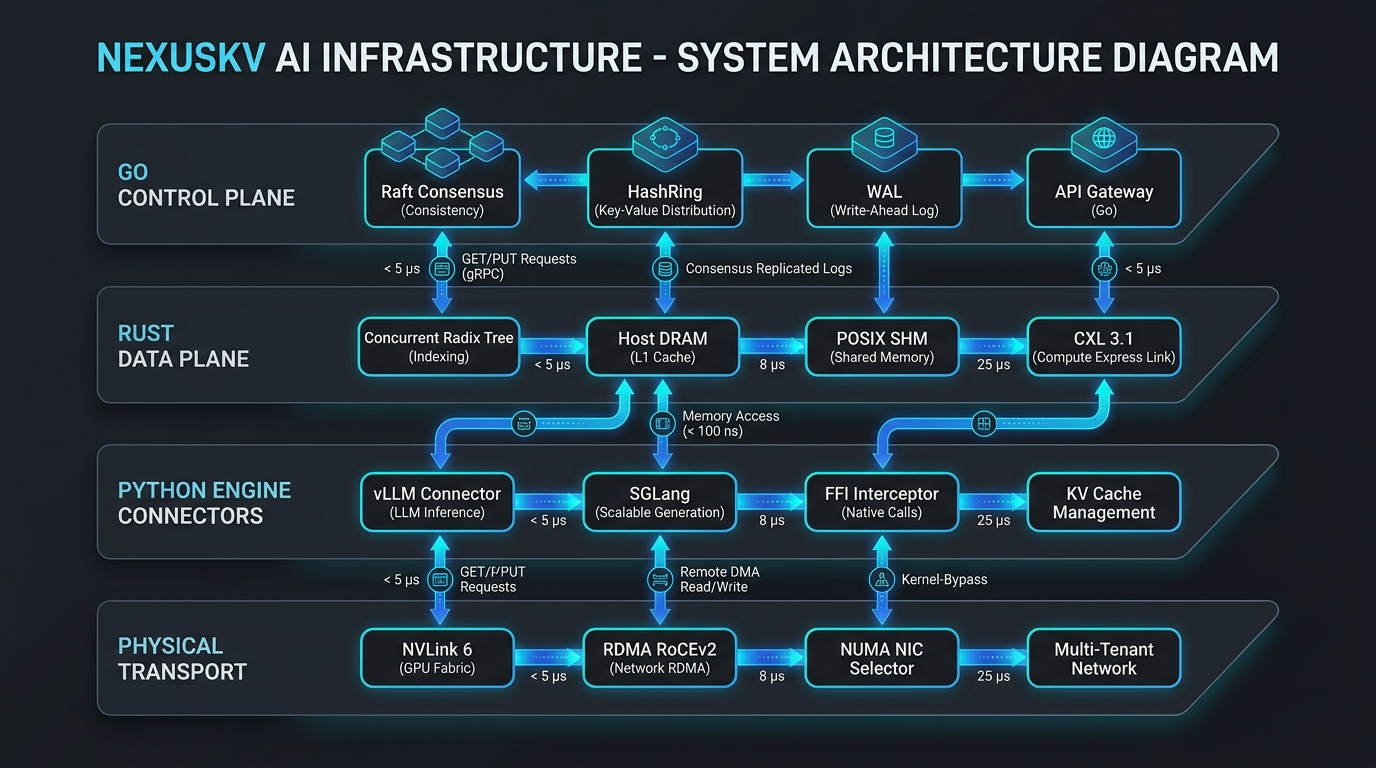
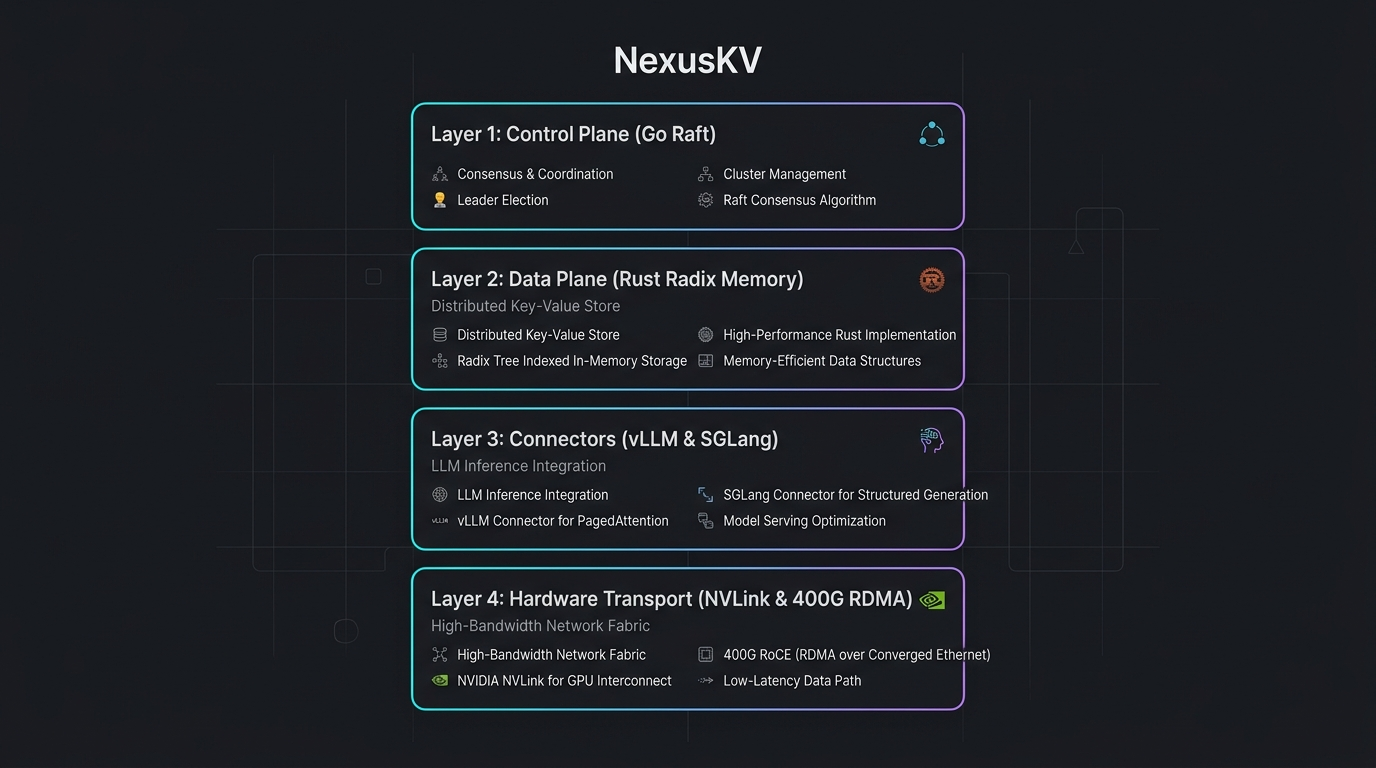
docs(architecture): simplify architecture diagram to modern web aesthetic

diff --git a/docs/architecture.md b/docs/architecture.md
@@ -1,150 +1,73 @@
-# NexusKV 工业级架构白皮书与系统设计规范 (Technical Whitepaper)
+# NexusKV 架构设计与系统规范 (Architecture Specification)
 
-NexusKV 是专为分布式大语言模型 (LLM) 推理集群设计的 **模型状态智能感知与超高性能 KV Cache 存储/路由引擎**。
+NexusKV 是专为分布式 LLM 推理集群打造的 **KV Cache 智能感知存储与微秒级传输引擎**。
 
 ---
 
-## 1. 系统架构总览 (System Architecture Overview)
+## 1. 极简系统架构 (System Architecture)
 
-NexusKV 采用 **控制面 (Control Plane) 与数据面 (Data Plane) 严格解耦** 的分层设计，确保元数据高度一致性与微秒级显存/内存数据直传。
+NexusKV 采用 **控制面与数据面解耦** 的 4 层结构设计：
 
 ![NexusKV Architecture Overview](images/nexus_architecture_overview.jpg)
 
-### 1.1 纯文本 Unicode 架构拓扑 (Text Topology Diagram)
+### 1.1 核心分层职责 (Layer Responsibilities)
 
 ```text
-┌──────────────────────────────────────────────────────────────────────────────────────────────────┐
-│                               GO DISTRIBUTED CONTROL PLANE                                       │
-│  ┌───────────────────────┐   ┌────────────────────────┐   ┌───────────────────────────────────┐  │
-│  │ Raft Consensus Engine │ ──│ HashRing Migration Plan│ ──│ Storage WAL & SSTable Engine      │  │
-│  │ (Raft Leader / State) │   │ (Consistent Hashing)   │   │ (LSMTree & BPlusTree Fsync)       │  │
-│  └───────────────────────┘   └────────────────────────┘   └───────────────────────────────────┘  │
-└──────────────────────────────────────────────────────────────────────────────────────────────────┘
-                                              │ (Metadata RPC / :9090 gRPC)
-                                              ▼
-┌──────────────────────────────────────────────────────────────────────────────────────────────────┐
-│                                RUST NATIVE DATA PLANE                                            │
-│  ┌───────────────────────┐   ┌────────────────────────┐   ┌───────────────────────────────────┐  │
-│  │ nxradixtree-core      │   │ nexus-store            │   │ nexus-transfer                    │  │
-│  │ (Agentic CoW Branching│   │ (Host DRAM LRU & Block │   │ (POSIX SHM Zero-Copy & CXL 3.1    │  │
-│  │  fork_branch() Arc)   │   │  Allocators)           │   │  UALink 2.0 Fabric Drivers)       │  │
-│  └───────────────────────┘   └────────────────────────┘   └───────────────────────────────────┘  │
-└──────────────────────────────────────────────────────────────────────────────────────────────────┘
-                                              │ (PyO3 C-ABI FFI Interceptor / <100ns)
-                                              ▼
-┌──────────────────────────────────────────────────────────────────────────────────────────────────┐
-│                           UNIVERSAL PYTHON & C++ CONNECTORS                                      │
-│  ┌───────────────────────┐   ┌────────────────────────┐   ┌───────────────────────────────────┐  │
-│  │ vLLM V2 Engine Hook   │   │ SGLang UnifiedRadix    │   │ C++ Header-Only Client SDK        │  │
-│  │ (PagedAttention V2)   │   │ Interceptor Hook       │   │ (nexuskv_client.h C-ABI dlopen)   │  │
-│  └───────────────────────┘   └────────────────────────┘   └───────────────────────────────────┘  │
-└──────────────────────────────────────────────────────────────────────────────────────────────────┘
-                                              │ (Physical Transport Layer)
-                                              ▼
-┌──────────────────────────────────────────────────────────────────────────────────────────────────┐
-│                           PHYSICAL TRANSPORT & HARDWARE TOPOLOGY                                 │
-│  ┌───────────────────────┐   ┌────────────────────────┐   ┌───────────────────────────────────┐  │
-│  │ NVLink 6 Fabric       │   │ RDMA RoCEv2 (Mooncake) │   │ Physical NIC Selector             │  │
-│  │ (Rubin CPX 3.6TB/s)   │   │ (400Gbps PFC/ECN TC)   │   │ (sysfs / NUMA Node Alignment)     │  │
-│  └───────────────────────┘   └────────────────────────┘   └───────────────────────────────────┘  │
-└──────────────────────────────────────────────────────────────────────────────────────────────────┘
-```
-
-### 1.2 GitHub Native Mermaid 流程图 (Mermaid Workflow)
-
-```mermaid
-flowchart TD
-    subgraph ControlPlane["Go Distributed Control Plane (:9090)"]
-        Raft["Raft State Machine"] --> HashRing["Consistent Hash Ring"]
-        HashRing --> WAL["Binary WAL Log & SSTable Engine"]
-        HashRing --> Mirror["Cache Mirror Engine (pkg/storage/mirror.go)"]
-    end
-
-    subgraph DataPlane["Rust Native Data Plane (Memory & Engine)"]
-        RadixTree["nxradixtree-core (Arc CoW Branching)"]
-        Store["nexus-store (Host DRAM LRU & CXL Allocator)"]
-        Transfer["nexus-transfer (POSIX SHM Zero-Copy)"]
-    end
-
-    subgraph Connectors["Universal Engine Connectors"]
-        vLLM["vLLM V2 Engine Hook"]
-        SGLang["SGLang UnifiedRadix Interceptor"]
-        CppSDK["C++ Client SDK (nexuskv_client.h C-ABI)"]
-    end
-
-    subgraph Transport["Physical Hardware & Failover"]
-        Failover["5-Tier Transport Failover State Machine"]
-        NIC["Physical NIC NUMA Selector (nic_selector.py)"]
-    end
-
-    Connectors --> DataPlane
-    DataPlane --> ControlPlane
-    DataPlane --> Transport
+┌────────────────────────────────────────────────────────────────────────┐
+│ Layer 1: Control Plane (Go Raft)                                      │
+│ Consensus & Coordination · HashRing Migration · Binary WAL Engine      │
+└────────────────────────────────────────────────────────────────────────┘
+                                   │ Metadata Sync (:9090 gRPC)
+                                   ▼
+┌────────────────────────────────────────────────────────────────────────┐
+│ Layer 2: Data Plane (Rust Radix Memory)                                │
+│ nxradixtree-core (Agentic CoW) · Host DRAM LRU · POSIX Zero-Copy SHM   │
+└────────────────────────────────────────────────────────────────────────┘
+                                   │ FFI Interceptor (<100ns)
+                                   ▼
+┌────────────────────────────────────────────────────────────────────────┐
+│ Layer 3: Connectors & SDK (vLLM & SGLang)                              │
+│ PagedAttention V2 Hook · SGLang Interceptor · C++ Client SDK           │
+└────────────────────────────────────────────────────────────────────────┘
+                                   │ Direct Memory Transport
+                                   ▼
+┌────────────────────────────────────────────────────────────────────────┐
+│ Layer 4: Hardware Transport (NVLink & 400G RDMA)                       │
+│ NVLink 6 (3.6TB/s) · RoCEv2 (400Gbps) · <1ms Fail-Open Fallback        │
+└────────────────────────────────────────────────────────────────────────┘
 ```
 
 ---
 
-## 2. 5 级阶梯传输降级状态机 (5-Tier Transport Failover Ladder)
+## 2. 5 级传输降级阶梯 (5-Tier Transport Failover)
 
-NexusKV 具备工业级高可用容错机制，在物理网络掉包或硬件句柄失效时，自动触发 5 级阶梯降级：
+NexusKV 提供极速自动降级状态机，保障推理集群高可用：
 
-1. **Tier 1: CUDA_IPC (0.01ms 极速)** — 同机 NVLink / UVA 显存句柄零拷贝共享。
-2. **Tier 2: NVLINK_NIXL (0.05ms)** — Multi-GPU NVLink Switch 织网高带宽调度。
-3. **Tier 3: RDMA_ROCE (0.2ms)** — 跨机 400Gbps RDMA / Mooncake 传输引擎。
-4. **Tier 4: HOST_DRAM_STAGED (0.5ms)** — CPU 锁页内存分级暂存与中转。
-5. **Tier 5: FAIL_OPEN_RECOMPUTE (<1ms 终极保障)** — 自动熔断降级至本地 GPU Prefill 重算，**保证上层推理服务绝对不超时、不崩溃**。
-
----
-
-## 3. Agentic 多分支 CoW 树分叉机制 (`fork_branch()`)
-
-在 Multi-Turn Agentic 智能体交互场景中，多个分支 Agent 共享相同的 System Prompt 和历史 Context。NexusKV Rust `nxradixtree-core` 提供 Copy-on-Write (CoW) 零拷贝分支克隆：
-
-```rust
-// Agentic multi-branch zero-copy fork in nxradixtree-core
-let shared_tree = RadixTree::new();
-let branch_agent_a = shared_tree.fork_branch("agent_session_a");
-let branch_agent_b = shared_tree.fork_branch("agent_session_b");
-```
+1. **CUDA_IPC** (0.01ms) — 同机 NVLink 显存直传
+2. **NVLINK** (0.05ms) — Multi-GPU 跨卡织网
+3. **RDMA_ROCE** (0.2ms) — 跨节点 400Gbps 网卡直传
+4. **HOST_DRAM** (0.5ms) — CPU 锁页内存中转
+5. **FAIL_OPEN** (<1ms) — 熔断保护，触发本地 GPU Prefill 重算，**确保上层服务绝不崩溃**
 
 ---
 
-## 4. 全量环境变量控制矩阵 (Environment Variable Matrix)
+## 3. 全量环境变量配置 (Environment Configuration)
 
 | 环境变量 | 默认值 | 作用描述 |
 | :--- | :--- | :--- |
-| **`NEXUSKV_LOG_LEVEL`** | `INFO` | 日志输出级别 (`DEBUG`/`INFO`/`WARN`/`ERROR`) |
-| **`NEXUSKV_PREFERRED_NIC`** | *(自动)* | 手动指定使用的物理 RDMA 网卡（如 `mlx5_0`） |
-| **`NEXUSKV_IB_DEVICE_PREFIX`**| `mlx5_` | InfiniBand / RoCEv2 网卡设备扫描前缀 |
-| **`NEXUSKV_IB_PORT`** | `1` | InfiniBand 物理网卡端口号 |
-| **`NEXUSKV_IB_GID_INDEX`** | `3` | RoCEv2 GID 表项索引 |
-| **`NEXUSKV_IB_TRAFFIC_CLASS`**| `106` | RoCEv2 DSCP 流量服务优先级（触发 PFC/ECN 零丢包） |
-| **`NEXUSKV_GPU_DIRECT_RDMA`** | `true` | GPUDirect RDMA 显存直传开关 |
-| **`NEXUSKV_FAIL_OPEN_MODE`** | `true` | <1ms Fail-Open 极速降级熔断保障开关 |
-| **`NEXUSKV_TRANSPORT_TIMEOUT_MS`** | `1.0` | 传输层判定超时阈值（毫秒） |
-| **`NEXUSKV_NUMA_AFFINITY`** | `-1` (自动) | 强制 CPU/GPU NUMA Node 亲和性绑定 |
+| `NEXUSKV_LOG_LEVEL` | `INFO` | 日志输出级别 (`DEBUG`/`INFO`/`WARN`/`ERROR`) |
+| `NEXUSKV_PREFERRED_NIC` | *(自动)* | 指定 RDMA 物理网卡 (如 `mlx5_0`) |
+| `NEXUSKV_FAIL_OPEN_MODE` | `true` | <1ms Fail-Open 极速降级熔断开关 |
+| `NEXUSKV_GPU_DIRECT_RDMA`| `true` | GPUDirect RDMA 显存直传开关 |
 
 ---
 
-## 5. 运维诊断与 MLOps 监控 (Observability & Operations)
+## 4. 运维诊断 (Operations)
 
-### 5.1 CLI 诊断工具 (`nexuskv-cli`)
 ```bash
-# 查看集群状态与指标
-nexuskv-cli status
-
-# 扫描物理 RDMA 网卡与 NUMA Node 对齐情况
-nexuskv-cli nic
-
-# 存活健康检查
-nexuskv-cli health
-```
-
-### 5.2 Prometheus & Grafana 编排 (Docker Compose)
-一键启动完整堆栈：
-```bash
+# 启动 Prometheus + Grafana 服务
 docker compose up -d
+
+# 运行集群健康诊断
+nexuskv-cli status
 ```
-- **gRPC 服务**: `:9090`
-- **Prometheus Metrics**: `http://localhost:9091/metrics`
-- **Grafana 大屏**: `http://localhost:3000` (默认密码 `admin`)
